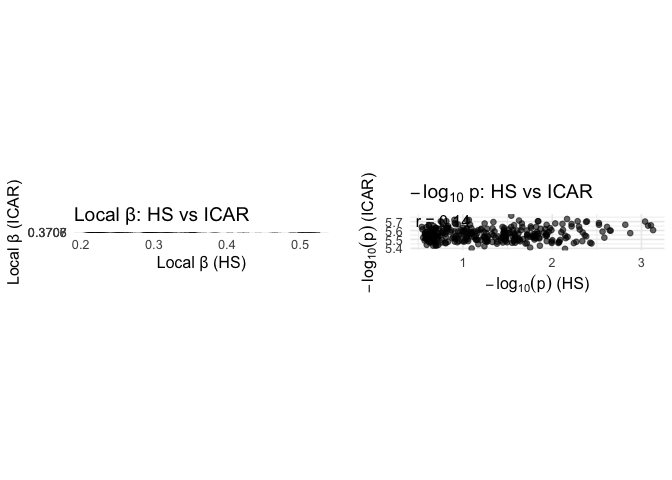
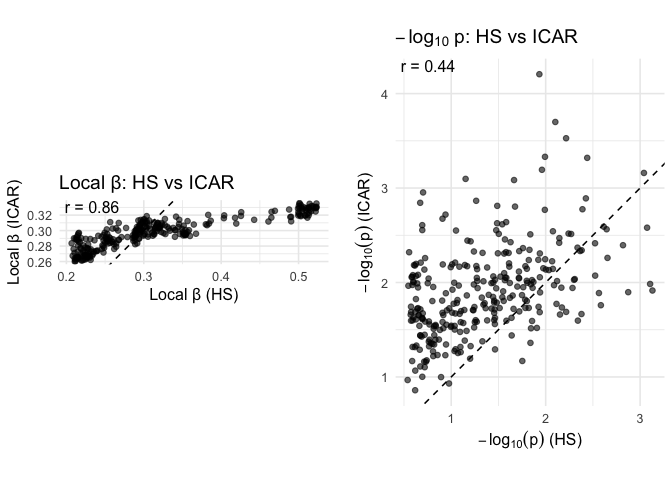
HS with general graph

diff --git a/README.md b/README.md
@@ -24,12 +24,10 @@ imaging (MSI) datasets. It is easily applicable to broader spatial
 datasets, to study spatially varying interaction between any two
 variables, based on a spatial fused horseshoe prior.
 
-**Oct 13, 2025 update: now an ICAR version of the model is provided. It
-is expected to be faster and more interpretable for general spatial
-networks, such as k-NN or Delauney network. However, it misses the
-piecewise constant structure that the MST-based horseshoe model can
-capture, crucial for understanding the subtle changes in local
-biology.**
+**Oct 16, 2025 update: 1. ICAR version of the model is provided. It
+could be marginally faster for general spatial networks, such as k-NN or
+Delauney network. 2. Horseshoe models now support general networks as
+well.**
 
 ## Install and load SpaceBF
 
@@ -129,7 +127,7 @@ covariance matrix.
 set.seed(2025*2025)
 
 # generate bivariate Gaussian data across space: (y1, y2)^T, y1, y2 are N x 1
-nu = 0.5            # correlation term is highly positive, making it 0 should give us NULL results 
+nu <- 0.5            # correlation term is highly positive, making it 0 should give us NULL results 
 
 y_latent_both <- c(MASS::mvrnorm(1, rep(0, 2*N), 
 kronecker(matrix(c(1, nu, nu, 1), nrow = 2), K))) #Kronecker product sturcture
